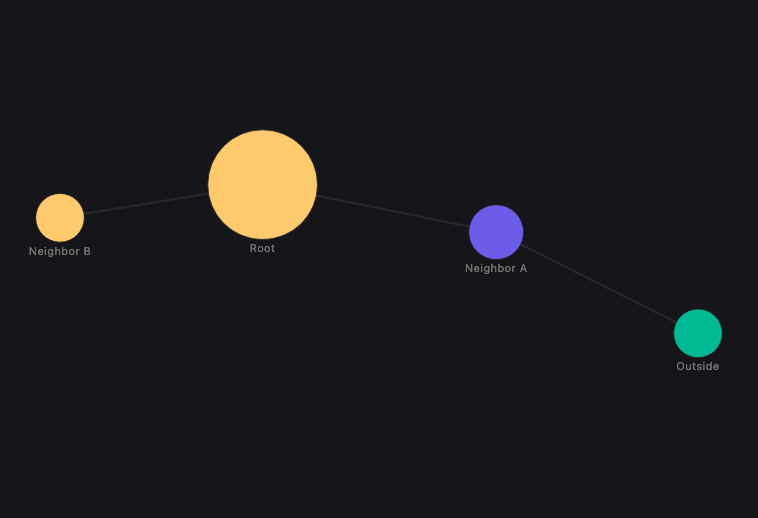
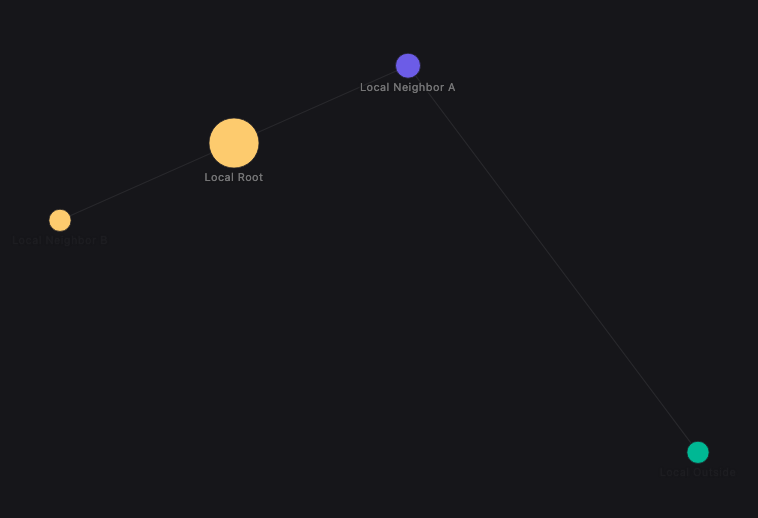
Make browser visual baselines runner-deterministic
The Linux PR runner showed that the packed-consumer visual smoke baseline could differ when it reused a warmed small fixture. The browser gate should fail on product regressions, not on fixture timing, so the visual baseline now uses the cold local fixture with regenerated Chromium baselines.

Constraint: Preserve runtime UX, graph physics, visual constants, and screenshot tolerance.

Rejected: Raise visual diff tolerance to match the Linux failure | weakens the stable Playwright gate.

Confidence: high

Scope-risk: narrow

Directive: Keep visual baselines tied to deterministic fixtures before adjusting screenshot tolerance.

Tested: npm run test:browser:update; npm run test:browser; git diff --check; npm run lint

Not-tested: PR CI rerun pending after push

diff --git a/tests/browser/packed-consumer.spec.ts b/tests/browser/packed-consumer.spec.ts
@@ -273,7 +273,7 @@ test('keeps pan usable and preserves the wheel pointer anchor within tolerance',
 });
 
 test('redraws after resize without resetting the user viewport', async ({ page }) => {
-  await setFixture(page, 'small');
+  await setFixture(page, 'local');
   await page.getByTestId('fit').click();
   await expectCanvasHasGraphPixels(page);
   await page.waitForTimeout(180);
@@ -361,7 +361,7 @@ test('captures deterministic visual smoke states', async ({ page }) => {
     maxDiffPixelRatio: VISUAL_MAX_DIFF_PIXEL_RATIO
   });
 
-  await setFixture(page, 'small');
+  await setFixture(page, 'local');
   await page.getByTestId('fit').click();
   await expectCanvasHasGraphPixels(page);
   await expect(await graphCanvas(page)).toHaveScreenshot('basic.png', {